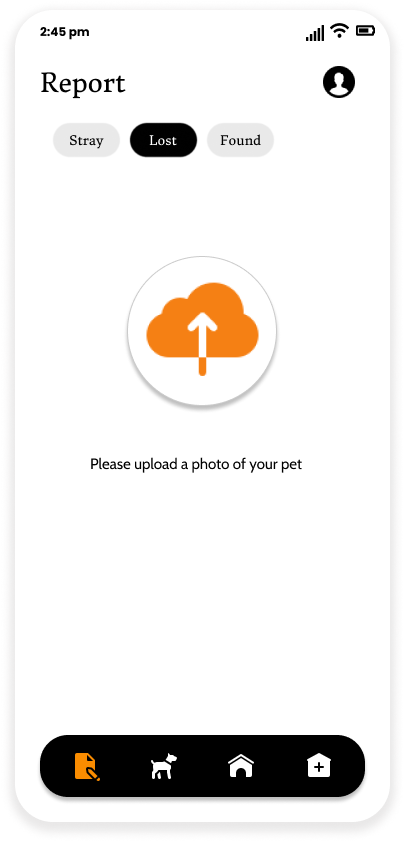
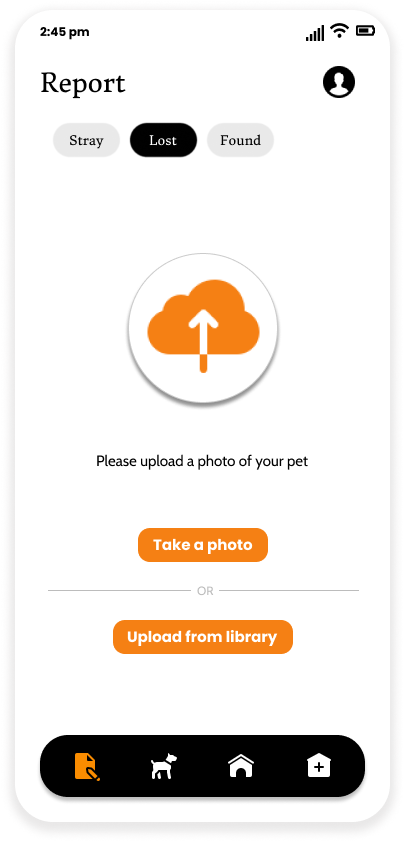
Final

diff --git a/docs/index.html b/docs/index.html
@@ -63,10 +63,23 @@
             proximity and availability.
           </p>
 
-          <div id="tt">1. Uploading photos</div>
+          <div id="tt">1. Initial Stray report prompt</div>
           <p>
-            Users are first asked to upload a photo of the animal. Users have
-            the option of uploading multiple photos and deleting photos
+            Initially, users are advised to check if the animal has a tag with
+            owner and/or animal information. A Found report should be filed if a
+            tag does exist on the animal.
+          </p>
+          <br />
+
+          <img id="ss" src="Home0.png" />
+
+          <br /><br /><br />
+
+          <div id="tt">2. Uploading photos</div>
+          <p>
+            Users are first asked to upload a photo of the animal. Users also
+            have the option of capturing a photo or uploading one from their
+            library, uploading and deleting multiple photos.
           </p>
           <br />
 
@@ -75,27 +88,57 @@
           <img id="ss" src="Home2.png" />
           <br /><br /><br />
 
-          <div id="tt">2. Sharing Location</div>
+          <div id="tt">3. Sharing Location</div>
           <p>
-            Next, users are asked to share location information so that the
-            animal shelter employees can track the reported animal.
+            Next, users are asked to share location information so that animal
+            shelter employees can track the reported animal. Users here have the
+            option of manually setting the location on the map or searching for
+            the location.
           </p>
           <br />
 
           <img id="ss" src="Home3.png" />
+          <img id="ss" src="Home9.png" />
+          <img id="ss" src="Home10.png" />
 
           <br /><br /><br />
-          <div id="tt">3. Details of the Animal</div>
+          <div id="tt">4. Final step of a Stray report</div>
           <p>
-            Users are then asked to describe the animal they intend to report.
-            They are required to check if the animal has owner information on
-            it's tag (if it exists). The animal will be reported as "Found" or
-            "Stray" depending on the existence of tag and owner information.
-            Users are also asked to mention other necessary information such as
-            the behaviour of the animal, type of the animal, it's size etc.
+            Users are then asked for certain details about the animal(s) they
+            intend to report. Personal details will be automatically filled in
+            using the information on the user profile. Whereas details such as
+            'No of animals' and 'Animal type' will be manually filled in. Users
+            are also given the option of provinding a description of the animal
+            including any necessary details.
           </p>
           <br />
           <img id="ss" src="Home4.png" />
+
+          <br /><br /><br />
+
+          <div id="tt">5. Initial Found report prompt</div>
+          <p>
+            Initially, users are advised to check the Lost section on the
+            Animals tab to see if the pet they've found has been reported
+            missing. Users are also given tips on what to do when they find a
+            missing pet.
+          </p>
+          <br />
+
+          <img id="ss" src="Home00.png" />
+          <img id="ss" src="Home000.png" />
+
+          <br /><br /><br />
+          <div id="tt">6. Final step of a Found report</div>
+          <p>
+            Users are then asked to fill in the information on the tag of the
+            animal. This includes details such as animal name, owner name and
+            phone number.
+          </p>
+          <br />
+          <img id="ss" src="Home4.png" />
+
+          <br /><br /><br />
         </div>
       </div>
     </div>

diff --git a/docs/lost.html b/docs/lost.html
@@ -60,10 +60,23 @@
             availability.
           </p>
 
-          <div id="tt">1. Uploading photos</div>
+          <div id="tt">1. Initial Lost report prompt</div>
           <p>
-            Users are first asked to upload a photo of the animal. Users have
-            the option of uploading multiple photos and deleting photos
+            Initially, users are advised to check the Found section on the
+            Animals tab to see if their missing pet has been reported found.
+            Users are also given tips on what to do when their pet goes missing.
+          </p>
+          <br />
+
+          <img id="ss" src="Homelo.png" />
+          <img id="ss" src="Homeltips.png" />
+
+          <br /><br /><br />
+          <div id="tt">2. Uploading photos</div>
+          <p>
+            Users are first asked to upload a photo of the animal. Users also
+            have the option of capturing a photo or uploading one from their
+            library, uploading and deleting multiple photos.
           </p>
           <br />
 
@@ -72,7 +85,7 @@
           <img id="ss" src="Home6.png" />
           <br /><br /><br />
 
-          <div id="tt">2. Personal Information</div>
+          <div id="tt">3. Personal Information</div>
           <p>
             Users are then asked to provide their personal information so that
             they can be notified when their missing pet has been found via a
@@ -83,7 +96,7 @@
           <img id="ss" src="Home7.png" />
 
           <br /><br /><br />
-          <div id="tt">3. Details of the Pet</div>
+          <div id="tt">4. Details of the Pet</div>
           <p>
             Users are then asked to describe their missing pet in detail so that
             the details can be put on the respective lost report. Users are

diff --git a/docs/home.html b/docs/home.html
@@ -59,16 +59,16 @@
           <div id="ttt">Introduction</div>
           <p>
             Centralized Animal Rescue or CAR is a technology that aims to
-            centralize Animal Rescue and Pet care. Targeted to help shelters and
+            centralize animal rescue and pet care. Targeted to help shelters and
             clinics that do not have the resources to host their own website or
-            mobile app, CAR hosts information about animal shelters, veterinary
+            mobile apps, CAR hosts information about animal shelters, veterinary
             clinics, animals available for adoption and foster-care,
             lost/found/stray animals in the neighborhood.
             <br />
             <br />
 
             &#160;&#160;&#160;&#160;&#160; CAR helps users find their missing
-            pets, or report Stray animals. A Stray/Lost/Found report triggers
+            pets, or report stray animals. A Stray/Lost/Found report triggers
             alerts to be sent to many animal shelters based on proximity and
             availability. Animal shelter employees recieve alerts and rescue the
             animal or help users find their missing pets based on the type of

diff --git a/docs/td.html b/docs/td.html
@@ -56,7 +56,7 @@
           <div id="ttt">Veterinary Clinics in the Neighborhood</div>
           <p>
             Centralized Animal Rescue hosts information about Veterinary Clinics
-            in the user's neighborhood. Users can look up individual clinic
+            in the users' neighborhood. Users can look up individual clinic
             information or book appointments by comparing available slots in
             many clinics.
           </p>
